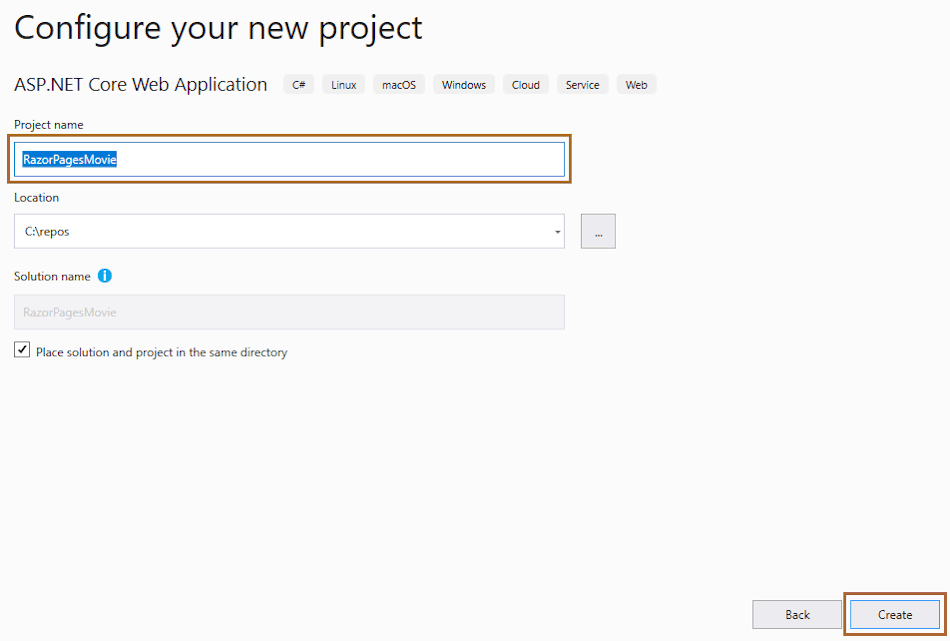
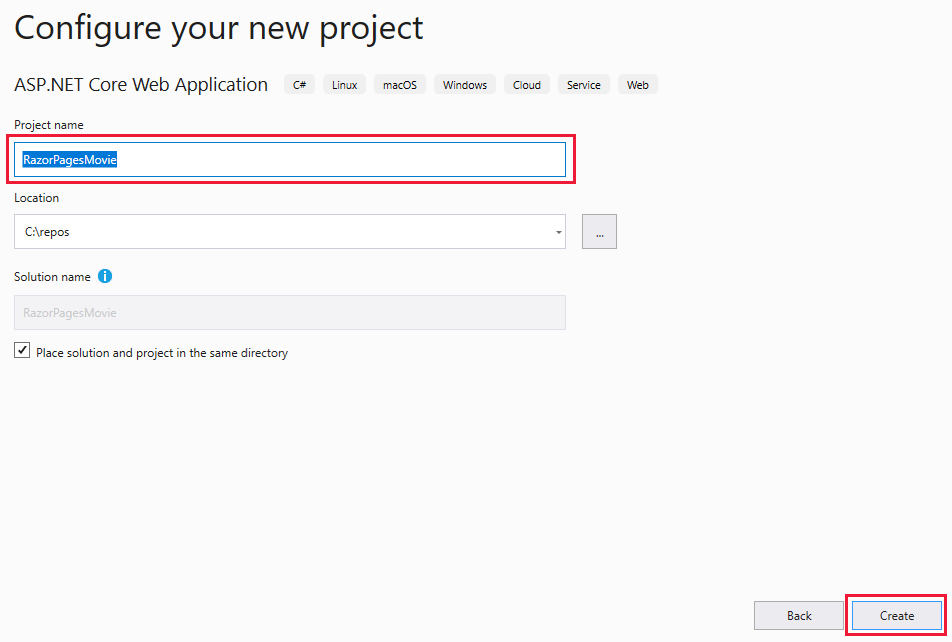
Razor Pages Series: minor fix link and config screen.

diff --git a/aspnetcore/tutorials/razor-pages/validation.md b/aspnetcore/tutorials/razor-pages/validation.md
@@ -231,7 +231,7 @@ Migrations are not required for SQLite.
 
 ### Publish to Azure
 
-For information on deploying to Azure, see [Tutorial: Build an ASP.NET Core app in Azure with SQL Database](/azure/app-service/app-service-web-tutorial-dotnetcore-sqldb).
+For information on deploying to Azure, see [Tutorial: Build an ASP.NET Core app in Azure with SQL Database](xref:/azure/app-service/app-service-web-tutorial-dotnetcore-sqldb).
 
 Thanks for completing this introduction to Razor Pages. [Get started with Razor Pages and EF Core](xref:data/ef-rp/intro) is an excellent follow up to this tutorial.
 
